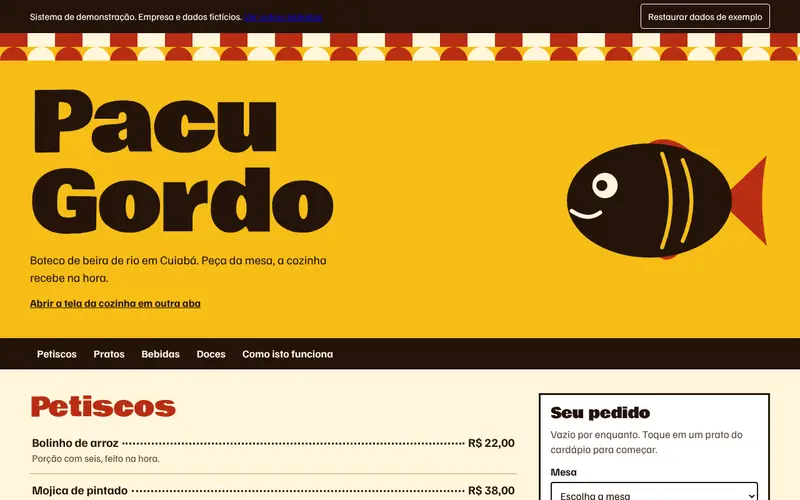
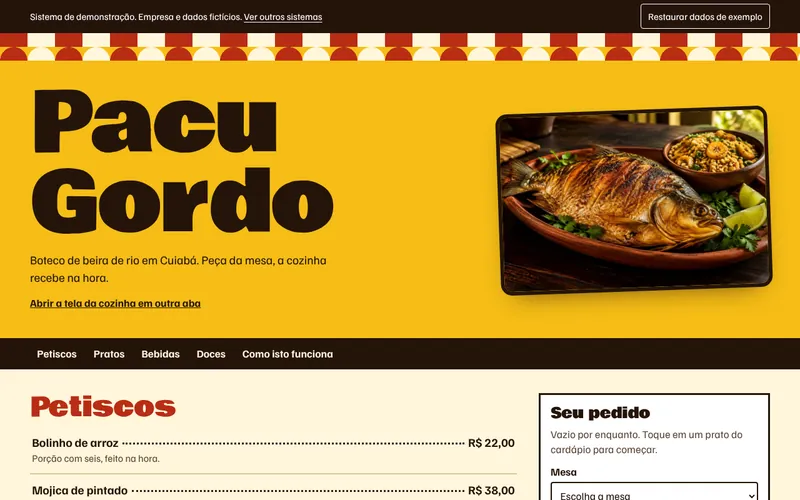
Pacu Gordo: foto do prato no lugar do peixe desenhado
- vitrine/cardapio: a placa de abertura passa a mostrar uma fotografia
  do pacu assado (img/pacu-hero.webp, 1200x800, webp, gerada no Canva e
  tratada aqui) em moldura inclinada com borda escura; no celular a foto
  aparece abaixo do texto em largura total (antes o desenho ficava
  escondido). A classe nova é .foto-placa, sem conflito com .prato dos
  itens do cardápio.
- img/projetos/pacu.webp: miniatura da vitrine atualizada com a nova
  abertura.
- Conferido com Playwright em 1440 e 390px: sem erro de console e sem
  rolagem horizontal. CSP mantida (img-src 'self').

Claude-Session: https://claude.ai/code/session_015DVsuVad392kn1wvAjF541

Changed region(s): [[0.5938, 0.21, 0.9688, 0.63], [0.2812, 0.03, 0.4062, 0.06]]

diff --git a/vitrine/cardapio/estilo.css b/vitrine/cardapio/estilo.css
@@ -21,7 +21,8 @@ button{cursor:pointer}
 .placa h1{font-size:clamp(3rem,13vw,8.4rem);letter-spacing:-.01em;line-height:.95}
 .placa p{font-size:1.2rem;max-width:44ch;margin:.7rem 0 .5rem}
 .ir-cozinha{display:inline-block;color:var(--tinta);font-weight:700;padding:.5rem 0}
-.peixe{width:clamp(120px,26vw,330px);height:auto}
+.foto-placa{margin:0;width:clamp(220px,34vw,460px);aspect-ratio:3/2;border-radius:18px;overflow:hidden;border:6px solid var(--tinta,#24140a);box-shadow:0 18px 40px -22px rgba(36,20,10,.7);transform:rotate(-2deg)}
+.foto-placa img{display:block;width:100%;height:100%;object-fit:cover}
 .categorias{position:sticky;top:0;z-index:5;display:flex;flex-wrap:wrap;gap:.2rem .3rem;background:var(--tinta);padding:.3rem clamp(1rem,4vw,3rem)}
 .categorias a{color:#fff6dc;font-weight:700;text-decoration:none;padding:.4rem .7rem;border-radius:4px;min-height:40px;display:flex;align-items:center}
 .categorias a:hover{background:var(--tomate)}
@@ -119,7 +120,7 @@ body.cozinha{background:#20302f;color:#fff}
 }
 @media (max-width:560px){
   .placa{grid-template-columns:minmax(0,1fr)}
-  .peixe{position:absolute;right:.6rem;width:92px;opacity:1;margin-top:-.2rem;display:none}
+  .foto-placa{width:100%;max-width:520px;transform:none;border-width:4px;margin-top:.4rem}
   .trilhos{grid-template-columns:minmax(0,1fr)}
   .categorias a{padding:.35rem .5rem}
   .coz-topo a{margin-left:0}

diff --git a/vitrine/cardapio/index.html b/vitrine/cardapio/index.html
@@ -36,16 +36,7 @@
     <p>Boteco de beira de rio em Cuiabá. Peça da mesa, a cozinha recebe na hora.</p>
     <a class="ir-cozinha" href="cozinha.html" target="_blank" rel="noopener">Abrir a tela da cozinha em outra aba</a>
   </div>
-  <svg class="peixe" viewBox="0 0 260 170" aria-hidden="true">
-    <path d="M196 85 L256 28 Q244 85 256 142 Z" fill="#b92d14"/>
-    <path d="M100 18 Q128 -6 164 26 L136 40 Z" fill="#b92d14"/>
-    <path d="M112 150 Q134 172 152 142 Z" fill="#b92d14"/>
-    <ellipse cx="108" cy="85" rx="104" ry="72" fill="#24140a"/>
-    <path d="M150 34 Q172 85 150 136" fill="none" stroke="#f6bd16" stroke-width="5" stroke-linecap="round"/>
-    <path d="M124 26 Q146 85 124 144" fill="none" stroke="#f6bd16" stroke-width="5" stroke-linecap="round"/>
-    <circle cx="52" cy="66" r="16" fill="#fff6dc"/><circle cx="48" cy="66" r="7" fill="#24140a"/>
-    <path d="M10 98 Q30 112 46 100" fill="none" stroke="#fff6dc" stroke-width="5" stroke-linecap="round"/>
-  </svg>
+  <figure class="foto-placa" aria-hidden="true"><img src="img/pacu-hero.webp" width="1200" height="800" alt="" decoding="async" fetchpriority="high"></figure>
 </header>
 <nav class="categorias" id="categorias" aria-label="Categorias do cardápio"></nav>
 <main class="salao-grade">
